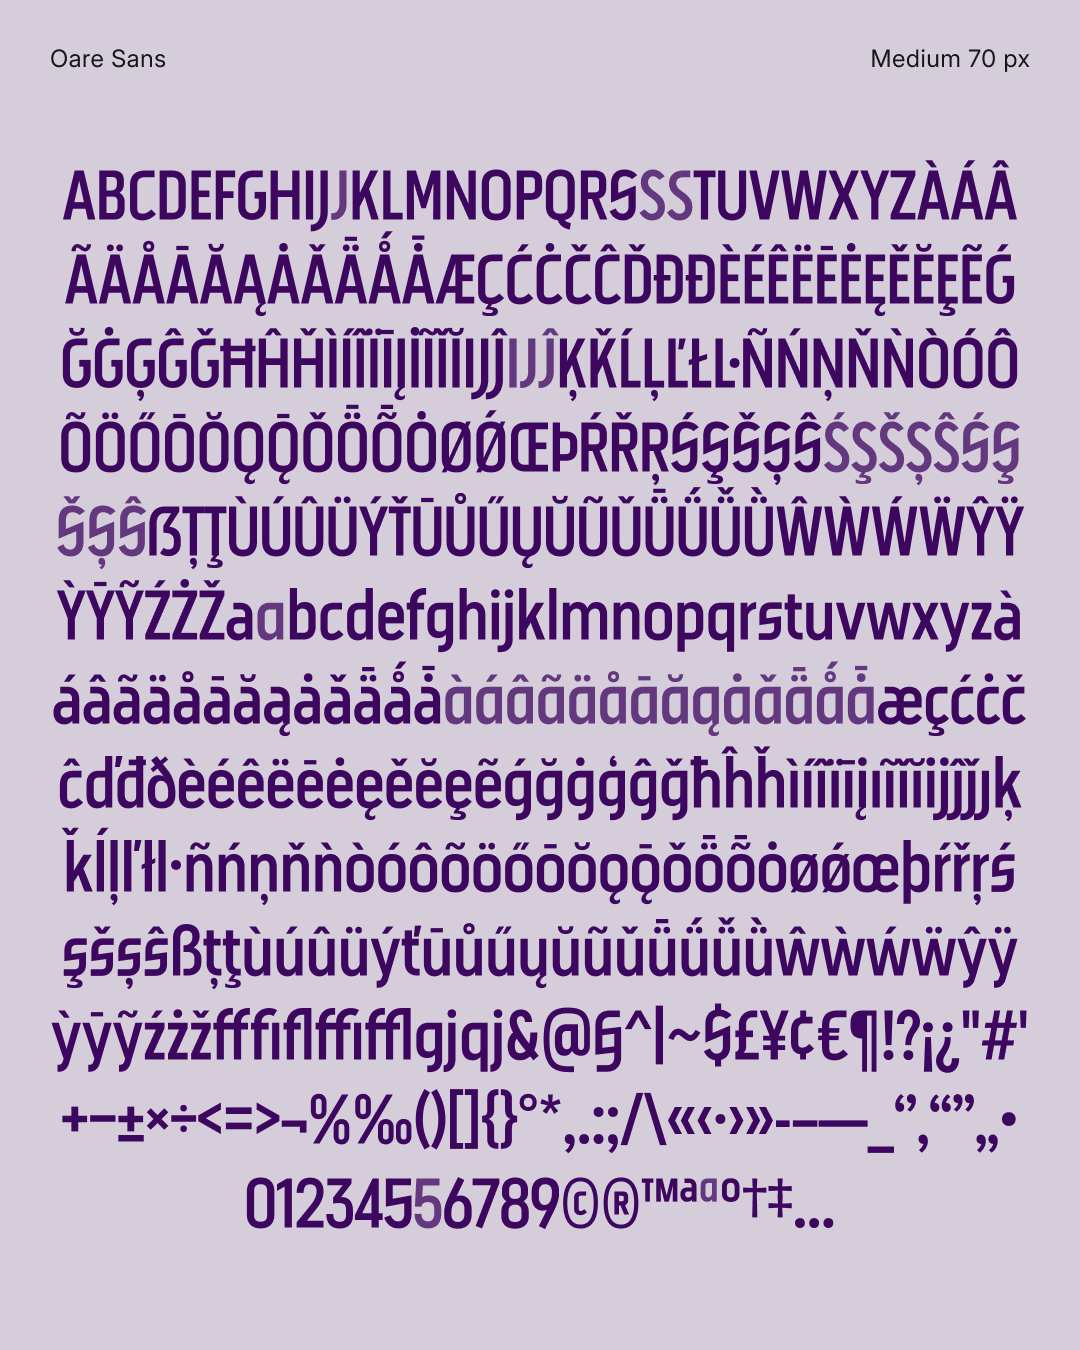
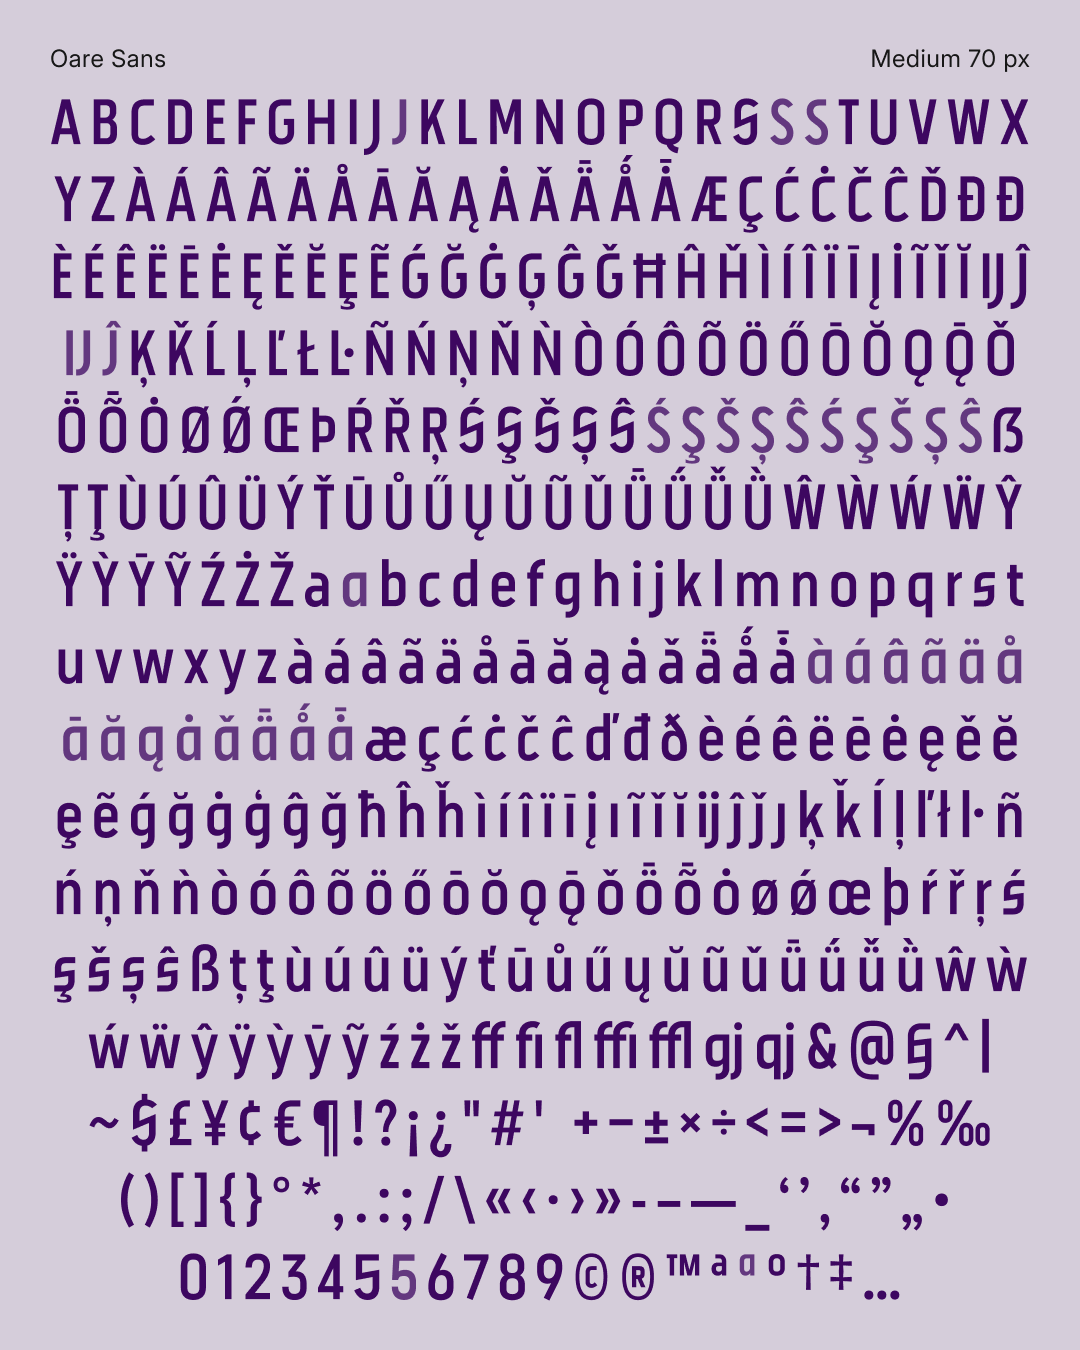
docs: add font article and landscape posters

diff --git a/documentation/article/ARTICLE.en_us.html b/documentation/article/ARTICLE.en_us.html
@@ -1,0 +1,28 @@
+<p>
+  Oare Sans is a condensed display sans-serif typeface that combines narrow
+  proportions with open apertures and distinctive letterforms. Letters such
+  as C and S bring an open quality to its compact design, while the uppercase
+  J descends below the baseline, its tail pairing with the curve of the
+  preceding letter.
+</p>
+<p>
+  A variable weight axis spans Thin (100) to Black (900), offering a range
+  from fine strokes to dense, emphatic shapes. A separate slant axis allows
+  the letterforms to lean into oblique styles, giving designers independent
+  control over weight and slant.
+</p>
+<p>
+  OpenType features include stylistic sets for alternative letterforms,
+  common ligatures, and case-sensitive forms for uppercase settings.
+  Oare Sans covers the Google Fonts Latin Basic character set, with
+  additional support for common Pinyin diacritics.
+</p>
+<p>
+  To contribute, see <a href="https://github.com/blueset/oare-sans">github.com/blueset/oare-sans</a>.
+</p>
+<hr>
+<img src="landscape-poster-1.png" alt="Oare Sans hero image" />
+<img src="landscape-poster-2.png" alt="Oare Sans weights and styles" />
+<img src="landscape-poster-3.png" alt="Oare Sans in use" />
+<img src="landscape-poster-4.png" alt="Oare Sans specimen" />
+<img src="landscape-poster-5.png" alt="Oare Sans glyphs set" />

diff --git a/README.md b/README.md
@@ -4,10 +4,11 @@
 
 > **oare** *n.* [o.ˈa.ɾɛ] moon
 
-**Oare Sans** is a condensed geometric display sans-serif typeface with variable axes for weight and slant. This typeface is an expansion of the [custom logotype created for PSCTF][psctf] from a limited set of letters to cover the GF Latin Core character set, and with variable expansion from Thin to Black and Regular to Oblique. This design was initiated from the desire to create a typeface that would match the initial design of the unconventional letter shapes of S and C. The name “Oare” is also named after the [Luna CTFd theme][luna] commissioned by the same team.
+**Oare Sans** is a condensed display sans-serif typeface that combines narrow proportions with open apertures and distinctive letterforms. Letters such as C and S bring an open quality to its compact design, while the uppercase J descends below the baseline, its tail pairing with the curve of the preceding letter.
 
-[psctf]: https://1a23.com/works/design/project-sekai-ctf/
-[luna]: https://1a23.com/works/open-source/luna-for-ctfd/
+A variable weight axis spans Thin (100) to Black (900), offering a range from fine strokes to dense, emphatic shapes. A separate slant axis allows the letterforms to lean into oblique styles, giving designers independent control over weight and slant.
+
+OpenType features include stylistic sets for alternative letterforms, common ligatures, and case-sensitive forms for uppercase settings. Oare Sans covers the Google Fonts Latin Basic character set, with additional support for common Pinyin diacritics.
 
 ![Banner](./documentation/article/Banner.png)
 ![Styles](./documentation/article/Styles.png)
@@ -85,8 +86,15 @@ uv run scripts/build_fonts.py --output-dir build/fonts
 
 ## License
 
-> Copyright (c) 2026 Eana Hufwe, 1A23 Studio (https://1A23.studio)
+> Copyright (c) 2026 Eana Hufwe, 1A23 Studio (https://1A23.studio), The Oare Sans Project Authors
 > 
 > This Font Software is licensed under the SIL Open Font License, Version 1.1.
 > This license is in this repo LICENSE.md, and is also available with a FAQ at:
 > https://openfontlicense.org
+
+## Trivia
+
+This typeface is an expansion of the [custom logotype created for PSCTF][psctf] from a limited set of letters to cover the GF Latin Core character set, and with variable expansion from Thin to Black and Regular to Oblique. This design was initiated from the desire to create a typeface that would match the initial design of the unconventional letter shapes of S and C. The name “Oare” is also named after the [Luna CTFd theme][luna] commissioned by the same team.
+
+[psctf]: https://1a23.com/works/design/project-sekai-ctf/
+[luna]: https://1a23.com/works/open-source/luna-for-ctfd/
